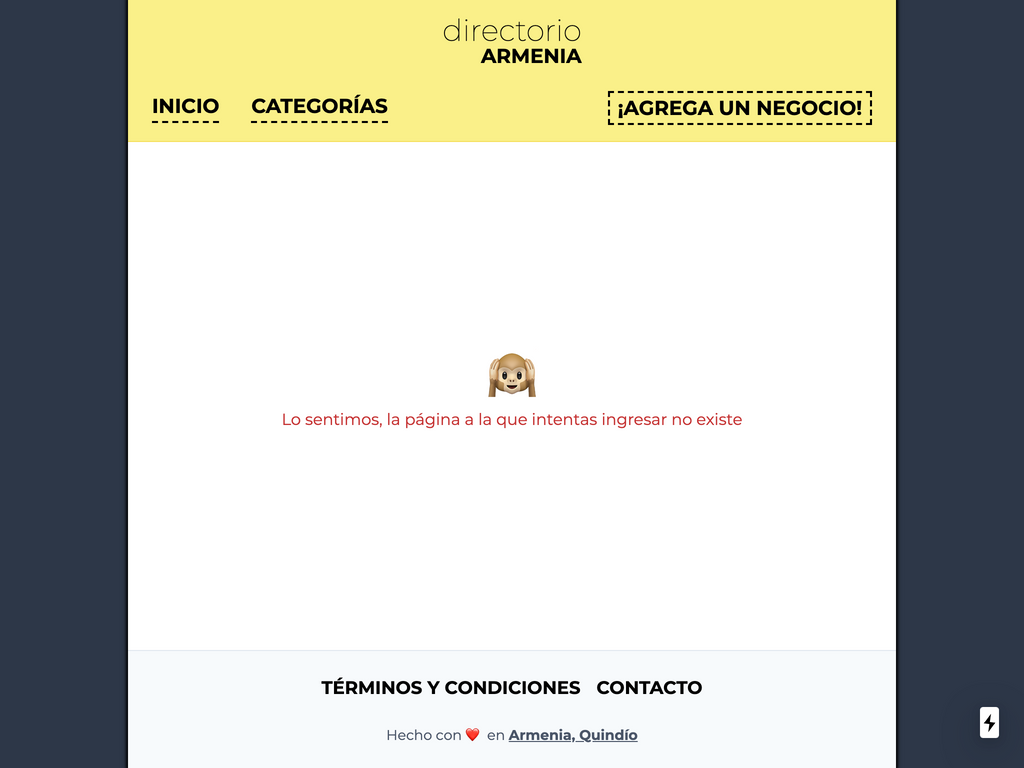
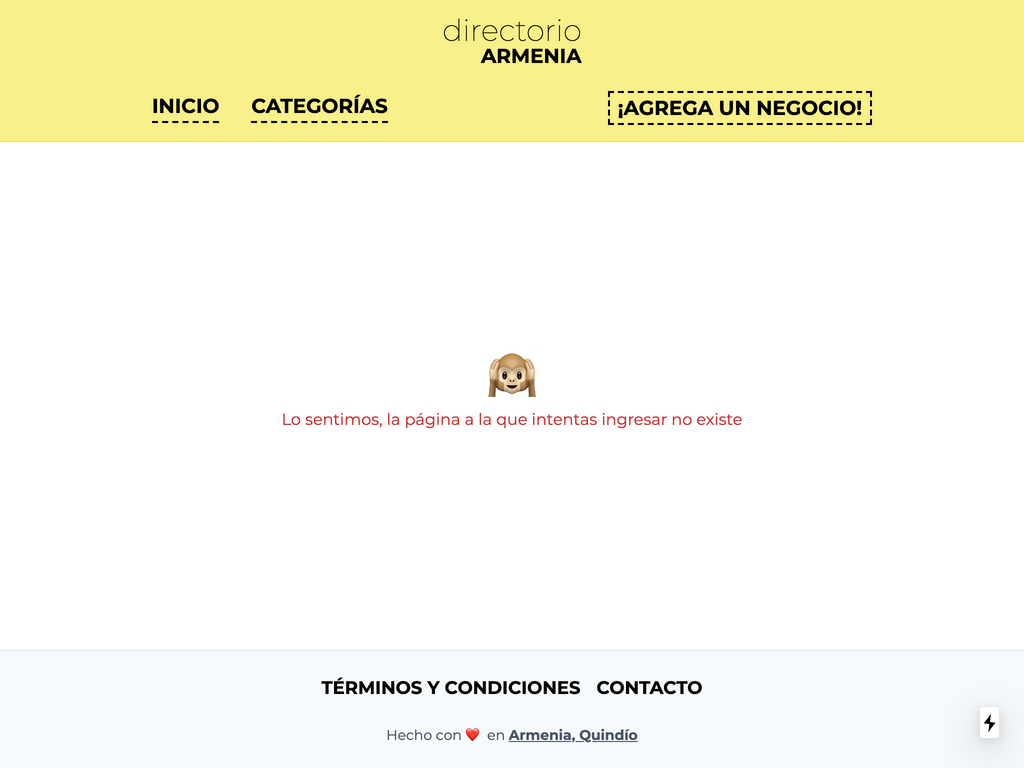
:lipstick: [update] mainlayout component styles

Changed region(s): [[0.875, 0.0, 1.0, 1.0], [0.0, 0.0, 0.125, 1.0]]

diff --git a/src/components/layout/Header.tsx b/src/components/layout/Header.tsx
@@ -38,49 +38,53 @@ function Header(): any {
   }
 
   return (
-    <header className="tw-bg-yellow-300 tw-border-b tw-border-yellow-400 tw-px-6 tw-flex-shrink-0 tw-py-4">
-      <section className="tw-flex tw-justify-between sm:tw-justify-center">
-        <Logo />
-        <button
-          className="tw-inline-block sm:tw-hidden tw-p-2"
-          onClick={handleCollapseMenu}
+    <header className="tw-bg-yellow-300 tw-border-b tw-border-yellow-400 tw-flex-shrink-0">
+      <section className="tw-max-w-screen-md tw-mx-auto tw-py-4 tw-px-6">
+        <section className="tw-flex tw-justify-between sm:tw-justify-center">
+          <Logo />
+          <button
+            className="tw-inline-block sm:tw-hidden tw-p-2"
+            onClick={handleCollapseMenu}
+          >
+            <span className="tw-border-b-2 tw-border-yellow-600 tw-block tw-w-8 tw-my-2" />
+            <span className="tw-border-b-2 tw-border-yellow-600 tw-block tw-w-8 tw-my-2" />
+            <span className="tw-border-b-2 tw-border-yellow-600 tw-block tw-w-8 tw-my-2" />
+          </button>
+        </section>
+
+        <nav
+          className={classnames("tw-mt-6", isMenuCollapsed ? "tw-hidden" : "tw-block")}
         >
-          <span className="tw-border-b-2 tw-border-yellow-600 tw-block tw-w-8 tw-my-2" />
-          <span className="tw-border-b-2 tw-border-yellow-600 tw-block tw-w-8 tw-my-2" />
-          <span className="tw-border-b-2 tw-border-yellow-600 tw-block tw-w-8 tw-my-2" />
-        </button>
+          <Menu>
+            <MenuItem tw-variant="default">
+              <Link href="/" passHref>
+                <MenuItemLink onClick={trackMenuItems}>
+                  <MenuItemLinkText>inicio</MenuItemLinkText>
+                </MenuItemLink>
+              </Link>
+            </MenuItem>
+            <MenuItem tw-variant="default">
+              <Link href="/categorias" passHref>
+                <MenuItemLink onClick={trackMenuItems}>
+                  <MenuItemLinkText>categorías</MenuItemLinkText>
+                </MenuItemLink>
+              </Link>
+            </MenuItem>
+            <MenuItem tw-variant="add-business">
+              <MenuItemLink onClick={handleAddBussinessClick}>
+                <MenuItemLinkText className="tw-border-2 tw-px-2">
+                  ¡agrega un negocio!
+                </MenuItemLinkText>
+              </MenuItemLink>
+            </MenuItem>
+          </Menu>
+        </nav>
+
+        <CreateBusinessModal
+          isModalVisible={isModalVisible}
+          setIsModalVisible={setIsModalVisible}
+        />
       </section>
-
-      <nav className={classnames("tw-mt-6", isMenuCollapsed ? "tw-hidden" : "tw-block")}>
-        <Menu>
-          <MenuItem tw-variant="default">
-            <Link href="/" passHref>
-              <MenuItemLink onClick={trackMenuItems}>
-                <MenuItemLinkText>inicio</MenuItemLinkText>
-              </MenuItemLink>
-            </Link>
-          </MenuItem>
-          <MenuItem tw-variant="default">
-            <Link href="/categorias" passHref>
-              <MenuItemLink onClick={trackMenuItems}>
-                <MenuItemLinkText>categorías</MenuItemLinkText>
-              </MenuItemLink>
-            </Link>
-          </MenuItem>
-          <MenuItem tw-variant="add-business">
-            <MenuItemLink onClick={handleAddBussinessClick}>
-              <MenuItemLinkText className="tw-border-2 tw-px-2">
-                ¡agrega un negocio!
-              </MenuItemLinkText>
-            </MenuItemLink>
-          </MenuItem>
-        </Menu>
-      </nav>
-
-      <CreateBusinessModal
-        isModalVisible={isModalVisible}
-        setIsModalVisible={setIsModalVisible}
-      />
     </header>
   );
 }

diff --git a/src/components/pages/index.tsx b/src/components/pages/index.tsx
@@ -104,21 +104,23 @@ export function BusinessItem({
         )}
       </section>
       <section className="tw-flex tw-flex-row tw-items-center tw-w-full sm:tw-w-auto tw-justify-start sm:tw-justify-end tw-pt-2 sm:tw-pt-0">
-        <a
-          href={`/${slug}`}
-          target="_blank"
-          rel="noreferrer"
-          className="tw-inline-block tw-mx-1"
-          onClick={() => {
-            track("Open details in a new tab");
-          }}
-        >
-          <img
-            src="/static/images/icons/open.svg"
-            className="tw-w-6 tw-h-6"
-            alt="Open in a new tab icon"
-          />
-        </a>
+        {!isPreview && (
+          <a
+            href={`/${slug}`}
+            target="_blank"
+            rel="noreferrer"
+            className="tw-inline-block tw-mx-1"
+            onClick={() => {
+              track("Open details in a new tab");
+            }}
+          >
+            <img
+              src="/static/images/icons/open.svg"
+              className="tw-w-6 tw-h-6"
+              alt="Open in a new tab icon"
+            />
+          </a>
+        )}
 
         {instagram && (
           <a
@@ -171,17 +173,19 @@ export function BusinessItem({
             />
           </a>
         )}
-        <button
-          type="button"
-          className="tw-bg-black tw-text-white tw-px-3 tw-py-1 tw-text-sm tw-inline-block tw-ml-auto sm:tw-ml-1 tw-font-bold tw-uppercase"
-          onClick={e => {
-            setShowModal(true);
-            track(e.currentTarget.innerText);
-            trackModal(`ver-detalles${isPreview ? "-preview" : ""}`);
-          }}
-        >
-          ver detalles
-        </button>
+        {name && (whatsapp || instagram) && (
+          <button
+            type="button"
+            className="tw-bg-black tw-text-white tw-px-3 tw-py-1 tw-text-sm tw-inline-block tw-ml-auto sm:tw-ml-1 tw-font-bold tw-uppercase"
+            onClick={e => {
+              setShowModal(true);
+              track(e.currentTarget.innerText);
+              trackModal(`ver-detalles${isPreview ? "-preview" : ""}`);
+            }}
+          >
+            ver detalles
+          </button>
+        )}
       </section>
 
       <Modal

diff --git a/src/components/layout/Page.tsx b/src/components/layout/Page.tsx
@@ -2,12 +2,12 @@ import React, { Fragment } from "react";
 import Head from "next/head";
 
 import { useDidMount, useDocumentTitle } from "~/hooks";
-import { trackPageLoaded, setDimension } from "~/utils/analytics";
+import { trackPageLoaded } from "~/utils/analytics";
 
 function Page({ children, metadata: metadataProp = {} }: Record<string, any>): any {
   const DEFAULT_METADATA = {
     description:
-      "el principal objetivo de este sitio web es dar a conocer de manera fácil y rápida el número de contacto y links de redes sociales de los negocios, pequeñas empresas o personas particulares que venden sus productos o servicios a través de redes sociales o whatsapp.",
+      "El principal objetivo de este sitio web es dar a conocer de manera fácil y rápida la información de los negocios, pequeñas empresas o personas particulares que venden sus productos o servicios a través de redes sociales o WhatsApp",
     image: "https://directorio-armenia.vercel.app/static/images/da-logo.png",
     title: "directorio ARMENIA",
     url: "https://directorio-armenia.vercel.app",
@@ -28,7 +28,6 @@ function Page({ children, metadata: metadataProp = {} }: Record<string, any>): a
 
   useDidMount(() => {
     trackPageLoaded();
-    setDimension(1, null);
   });
 
   return (

diff --git a/src/components/layout/MainLayout.tsx b/src/components/layout/MainLayout.tsx
@@ -33,9 +33,9 @@ export default function MainLayout({
 
 // --- Components ---
 
-const Main = twcss.main`tw-mx-auto tw-max-w-screen-md tw-text-center tw-bg-white tw-shadow-md tw-min-h-full tw-flex tw-flex-col`;
+const Main = twcss.main`tw-mx-auto tw-text-center tw-bg-white tw-shadow-md tw-min-h-full tw-flex tw-flex-col`;
 
-const Body = twcss.section`tw-px-6 tw-py-8 tw-flex tw-flex-1 tw-flex-col tw-items-stretch`;
+const Body = twcss.section`tw-px-6 tw-py-8 tw-flex tw-flex-1 tw-flex-col tw-items-stretch tw-max-w-screen-md tw-mx-auto tw-w-full`;
 
 function Footer() {
   function trackLinks(e) {
@@ -43,7 +43,7 @@ function Footer() {
   }
 
   return (
-    <footer className="tw-bg-gray-100 tw-border-t tw-py-6 tw-flex-shrink-0">
+    <footer className="tw-bg-gray-100 tw-border-t tw-py-6 tw-flex-shrink-0 tw-text-center">
       <ul>
         <li className="tw-inline-block tw-mx-2 tw-my-1 sm:tw-my-0">
           <Link href="/terminos-y-condiciones" passHref>

diff --git a/src/pages/index.tsx b/src/pages/index.tsx
@@ -10,14 +10,14 @@ const Home: React.FunctionComponent = function Home() {
         <ContentBox>
           <Title>¡bienvenido!</Title>
 
-          <p className="tw-text-justify">
+          <p className="tw-text-left">
             El principal objetivo de este sitio web es dar a conocer de manera fácil y
             rápida la información de los negocios, pequeñas empresas o personas
             particulares que venden sus productos o servicios a través de redes sociales o
             <strong className="tw-underline tw-text-green-700 tw-ml-1">WhatsApp</strong>.
           </p>
           <br />
-          <p className="tw-text-justify">
+          <p className="tw-text-left">
             También encontrarás información de sitios como cafés, restaurantes, comidas
             rápidas, pizzerías, licorerías, entre otros.
           </p>

diff --git a/src/pages/_app.tsx b/src/pages/_app.tsx
@@ -17,7 +17,7 @@ class CustomApp extends App {
 
     function onRouteChangeComplete() {
       console.log("onRouteChangeComplete");
-      document.getElementById("__next").scrollTop = 0;
+      // document.getElementById("__next").scrollTop = 0;
 
       new ClipboardJS(".clipboard-btn");
     }

diff --git a/src/utils/analytics.ts b/src/utils/analytics.ts
@@ -28,6 +28,7 @@ export function trackPageLoaded(): void {
   console.groupEnd();
 
   ReactGA.pageview(window.location.pathname, [], document.title);
+  setDimension(1, null);
 }
 
 export function trackEvent({ category, label }: Record<string, string>): void {

diff --git a/src/pages/_document.tsx b/src/pages/_document.tsx
@@ -6,7 +6,7 @@ class MyDocument extends Document {
     return (
       <Html lang="es">
         <Head />
-        <body className="tw-bg-gray-800">
+        <body>
           <Main />
           <NextScript />
         </body>
